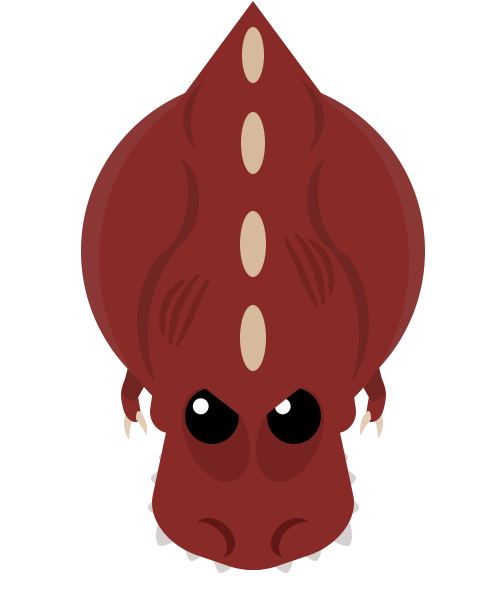
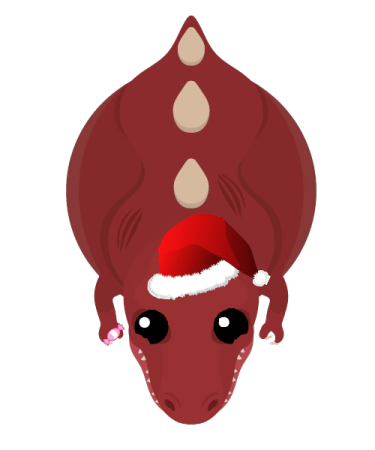
🔋🦀 Checkpoint ./mope/index.html:39269466/8 ./.glitch-assets:39269466/361

diff --git a/mope/index.html b/mope/index.html
@@ -105,7 +105,8 @@
   <li>Christmas has come to mope sandbox have fun with the skins that you will add and those that will be added CREDITS TO Y-YASSINE.
   <ul>
   <li>1v1 command removed
-reason: i broke it xd
+reason: i broke it xd.
+  
   <h2>past updates
   <ul>
   <li>Hello everyone, I have not announced some updates that I have made during this month and the previous one:
